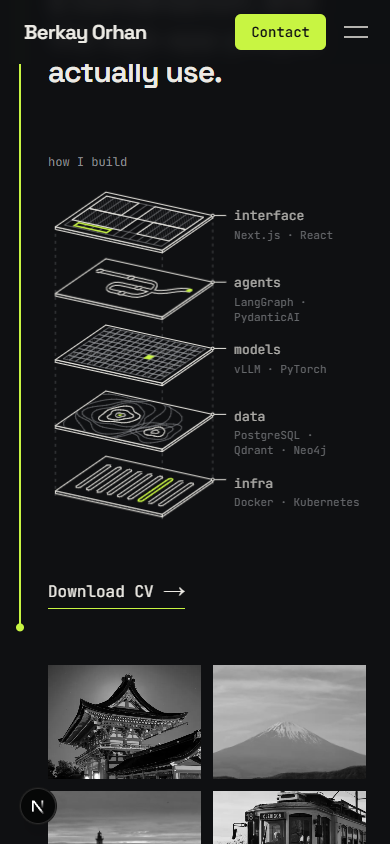
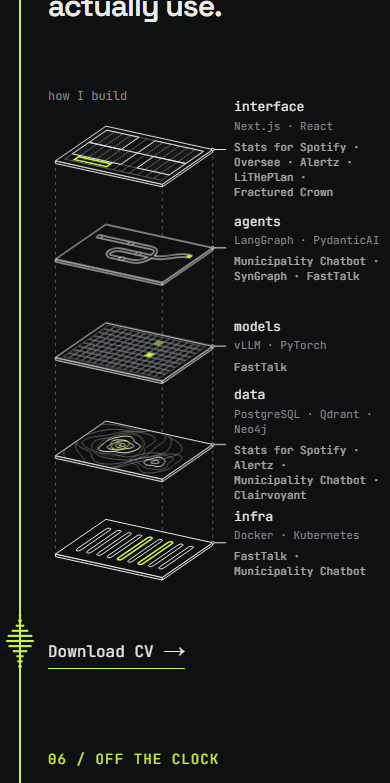
About stack on phones: plates sit closer, each label centred on its plate's leader

diff --git a/components/landing/stack.tsx b/components/landing/stack.tsx
@@ -159,7 +159,8 @@ function Projects({ list }: { list: [string, string][] }) {
   return <Joined items={list.map(([name, id]) => <Link className="hover:text-(--lime) hover:underline" href={`/projects/${id}`} key={id}>{name}</Link>)} />;
 }
 
-// The plates and their labels, spread `pitch` units apart. Phones spread them wider so the labels fit.
+// The plates and their labels, spread `pitch` units apart. Phones spread them wider and centre each label
+// on its leader so the labels fit.
 // On wide screens each leader line runs on past its label to the projects built on that layer
 // (design/approved/about-used-in.png); narrower, the projects sit under the tools.
 function Drawing({ layers, tools, shipped, heading, pitch, className }: Props & { pitch: number; className: string }) {
@@ -195,7 +196,7 @@ function Drawing({ layers, tools, shipped, heading, pitch, className }: Props & 
       <ul className="relative flex-1">
         {layers.map((layer, i) => (
           <li
-            className="stack-label -translate-y-[9px] group absolute inset-x-0 flex items-start pl-2 lg:-translate-y-[11px] lg:pl-4"
+            className="stack-label -translate-y-1/2 group absolute inset-x-0 flex items-start pl-2 lg:-translate-y-[11px] lg:pl-4"
             key={layer}
             style={{ top: `${((Y0 + i * pitch + W * EX[1] + D * EY[1]) / vh) * 100}%` }}
           >
@@ -242,7 +243,7 @@ export function Stack(props: Props) {
           </clipPath>
         </defs>
       </svg>
-      <Drawing {...props} className="flex lg:hidden" pitch={350} />
+      <Drawing {...props} className="flex lg:hidden" pitch={265} />
       <Drawing {...props} className="hidden lg:flex" pitch={132} />
     </>
   );
